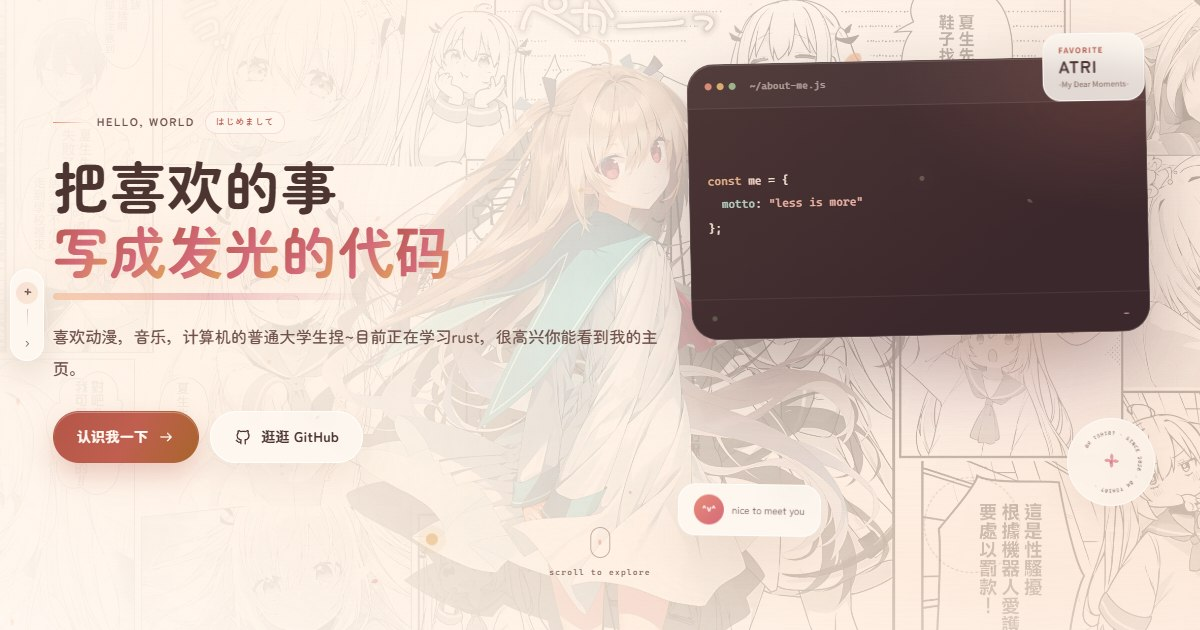
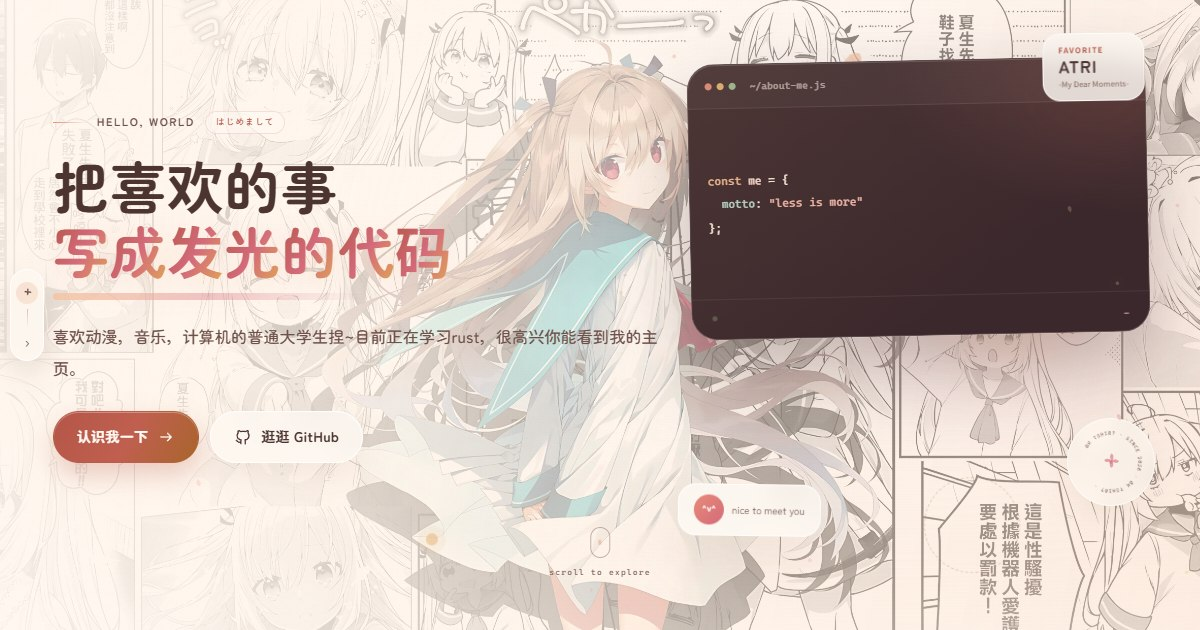
fix: make ATRI background image prominent and cache-safe

diff --git a/assets/css/style.css b/assets/css/style.css
@@ -170,9 +170,9 @@ strong {
 .site-bg {
   position: fixed;
   inset: 0;
-  z-index: -3;
+  z-index: 0;
   overflow: hidden;
-  background: #efd7c7;
+  background: #efd7c7 url("../images/atri-bg.jpg") center 42% / cover no-repeat;
 }
 
 .site-bg picture,
@@ -193,9 +193,9 @@ strong {
   position: absolute;
   inset: 0;
   background:
-    radial-gradient(ellipse at 76% 34%, rgba(255, 238, 219, .08) 0 20%, rgba(255, 236, 219, .46) 62%, rgba(255, 247, 239, .84) 100%),
-    linear-gradient(102deg, rgba(255, 249, 242, .93) 0%, rgba(255, 246, 236, .79) 34%, rgba(255, 239, 225, .52) 64%, rgba(248, 219, 199, .57) 100%),
-    linear-gradient(180deg, rgba(255, 248, 241, .35), rgba(244, 209, 186, .28));
+    radial-gradient(ellipse at 76% 34%, rgba(255, 238, 219, .02) 0 20%, rgba(255, 236, 219, .24) 62%, rgba(255, 247, 239, .7) 100%),
+    linear-gradient(102deg, rgba(255, 249, 242, .89) 0%, rgba(255, 246, 236, .7) 34%, rgba(255, 239, 225, .38) 64%, rgba(248, 219, 199, .44) 100%),
+    linear-gradient(180deg, rgba(255, 248, 241, .2), rgba(244, 209, 186, .18));
 }
 
 .site-bg__grain {
@@ -209,6 +209,13 @@ strong {
 @keyframes bg-breathe {
   from { transform: scale(1.015) translate3d(0, 0, 0); }
   to { transform: scale(1.045) translate3d(-.6%, -.8%, 0); }
+}
+
+@media (max-width: 760px) {
+  .site-bg {
+    background-image: url("../images/atri-bg-mobile.jpg");
+    background-position: center 36%;
+  }
 }
 
 /* ---------- particles & ambient ---------- */

diff --git a/index.html b/index.html
@@ -42,8 +42,8 @@
   <!-- 全屏动态背景 -->
   <div class="site-bg" aria-hidden="true">
     <picture>
-      <source media="(max-width: 760px)" srcset="assets/images/bg-atri-mobile.jpg">
-      <img src="assets/images/bg-atri.jpg" alt="">
+      <source media="(max-width: 760px)" srcset="assets/images/atri-bg-mobile.jpg">
+      <img src="assets/images/atri-bg.jpg" alt="">
     </picture>
     <div class="site-bg__veil"></div>
     <div class="site-bg__grain"></div>
